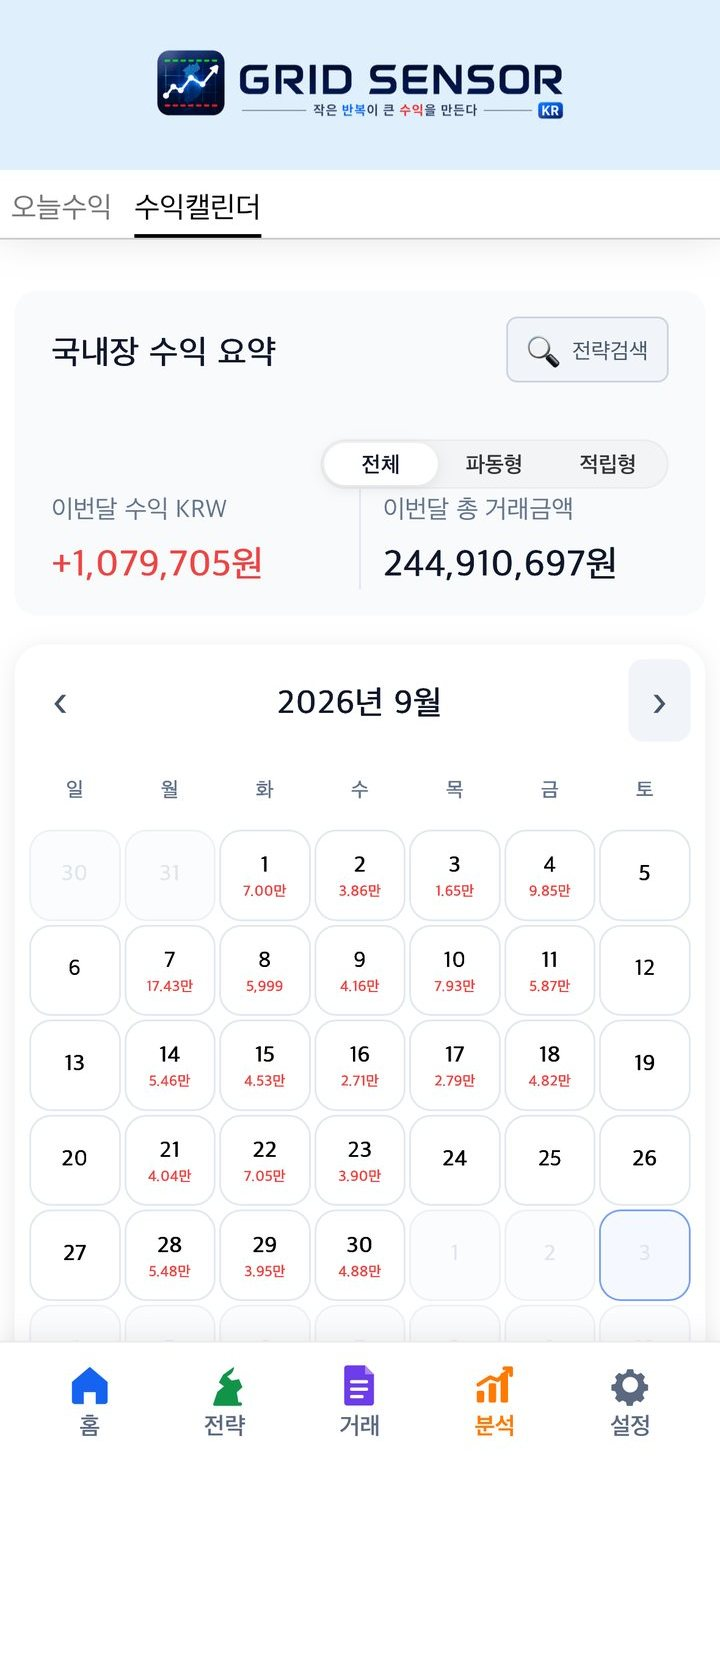
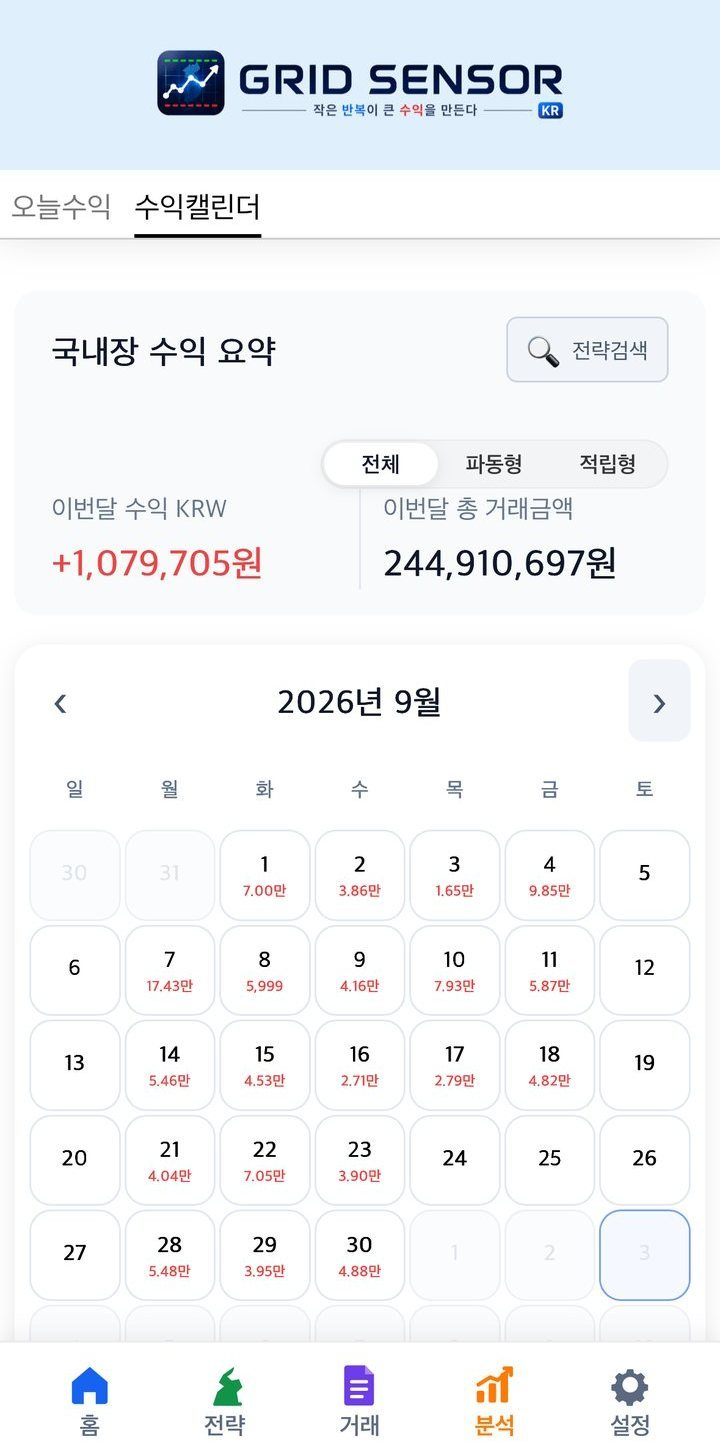
Add files via upload

diff --git a/gridsensor-zoom/index.html b/gridsensor-zoom/index.html
@@ -61,7 +61,7 @@
 .hk3{display:flex;flex-wrap:wrap;justify-content:center;gap:12px;max-width:1020px;margin:0 auto 24px}
 .hk3>div{flex:0 0 auto;width:calc((100% - 24px)/3);box-sizing:border-box}
 @media (max-width:545px){.hk3>div{width:100%;max-width:400px}}
-.pshot{display:flex;flex-wrap:wrap;justify-content:center;gap:14px;max-width:1020px;margin:0 auto}
+.pshot{display:flex;flex-wrap:wrap;justify-content:center;align-items:flex-start;gap:14px;max-width:1020px;margin:0 auto}
 .pshot>figure{flex:0 0 auto;width:calc((100% - 28px)/3);margin:0}
 @media (max-width:545px){.pshot>figure{width:100%;max-width:380px}}
 .ptalk{display:flex;flex-wrap:wrap;justify-content:center;gap:14px;max-width:1020px;margin:0 auto}
@@ -102,22 +102,22 @@
 
   <div class="pshot">
       <figure>
-        <img src="https://ansojang.github.io/gridsensor-zoom/now_01.jpg" width="720" height="1657" alt="국내주식 KR 2026년 8월 수익 캘린더 화면" loading="lazy">
+        <img src="https://ansojang.github.io/gridsensor-zoom/now_01.jpg" width="720" height="1442" alt="국내주식 KR 2026년 8월 수익 캘린더 화면" loading="lazy">
       </figure>
       <figure>
-        <img src="https://ansojang.github.io/gridsensor-zoom/now_12.jpg" width="720" height="1657" alt="미국주식 US 2026년 8월 수익 캘린더 화면" loading="lazy">
+        <img src="https://ansojang.github.io/gridsensor-zoom/now_12.jpg" width="720" height="1488" alt="미국주식 US 2026년 8월 수익 캘린더 화면" loading="lazy">
       </figure>
       <figure>
-        <img src="https://ansojang.github.io/gridsensor-zoom/now_13.jpg" width="720" height="1657" alt="디지털자산 DT 2026년 9월 수익 캘린더 화면" loading="lazy">
+        <img src="https://ansojang.github.io/gridsensor-zoom/now_13.jpg" width="720" height="1332" alt="디지털자산 DT 2026년 9월 수익 캘린더 화면" loading="lazy">
       </figure>
       <figure>
-        <img src="https://ansojang.github.io/gridsensor-zoom/now_11.jpg" width="720" height="1657" alt="국내주식 KR 2026년 8월 수익 캘린더 화면" loading="lazy">
+        <img src="https://ansojang.github.io/gridsensor-zoom/now_11.jpg" width="720" height="1648" alt="국내주식 KR 2026년 8월 수익 캘린더 화면" loading="lazy">
       </figure>
       <figure>
-        <img src="https://ansojang.github.io/gridsensor-zoom/now_03.jpg" width="720" height="1657" alt="미국주식 US 2026년 8월 수익 캘린더 화면" loading="lazy">
+        <img src="https://ansojang.github.io/gridsensor-zoom/now_03.jpg" width="720" height="1442" alt="미국주식 US 2026년 8월 수익 캘린더 화면" loading="lazy">
       </figure>
       <figure>
-        <img src="https://ansojang.github.io/gridsensor-zoom/now_02.jpg" width="720" height="1657" alt="국내주식 KR 2026년 9월 수익 캘린더 화면" loading="lazy">
+        <img src="https://ansojang.github.io/gridsensor-zoom/now_02.jpg" width="720" height="1442" alt="국내주식 KR 2026년 9월 수익 캘린더 화면" loading="lazy">
       </figure>
   </div>
 

diff --git a/gridsensor-zoom/probe.html b/gridsensor-zoom/probe.html
@@ -1,0 +1,16 @@
+<!doctype html><meta charset="utf-8"><title>probe</title>
+<body style="font:13px monospace;white-space:pre"><div id="o">measuring...</div>
+<script>
+const W=[320,360,375,390,414,430,460,480,500,520,545,546,560,580,600,640,672,700,720,735];
+const out=[];
+function one(w){return new Promise(res=>{
+  const f=document.createElement('iframe');
+  f.style.cssText='position:absolute;left:-9999px;top:0;border:0;width:'+w+'px;height:200px;';
+  f.setAttribute('scrolling','no');
+  f.src='https://ansojang.github.io/gridsensor-zoom/index.html?p='+Math.floor(Math.random()*1e9);
+  f.onload=()=>{setTimeout(()=>{let h=0;try{h=f.contentDocument.documentElement.scrollHeight}catch(e){h=-1};res([w,h]);f.remove();},4200)};
+  document.body.appendChild(f);
+});}
+(async()=>{for(const w of W){const r=await one(w);out.push(r);document.getElementById('o').textContent=JSON.stringify(out);}
+document.getElementById('o').textContent='DONE '+JSON.stringify(out);})();
+</script>
